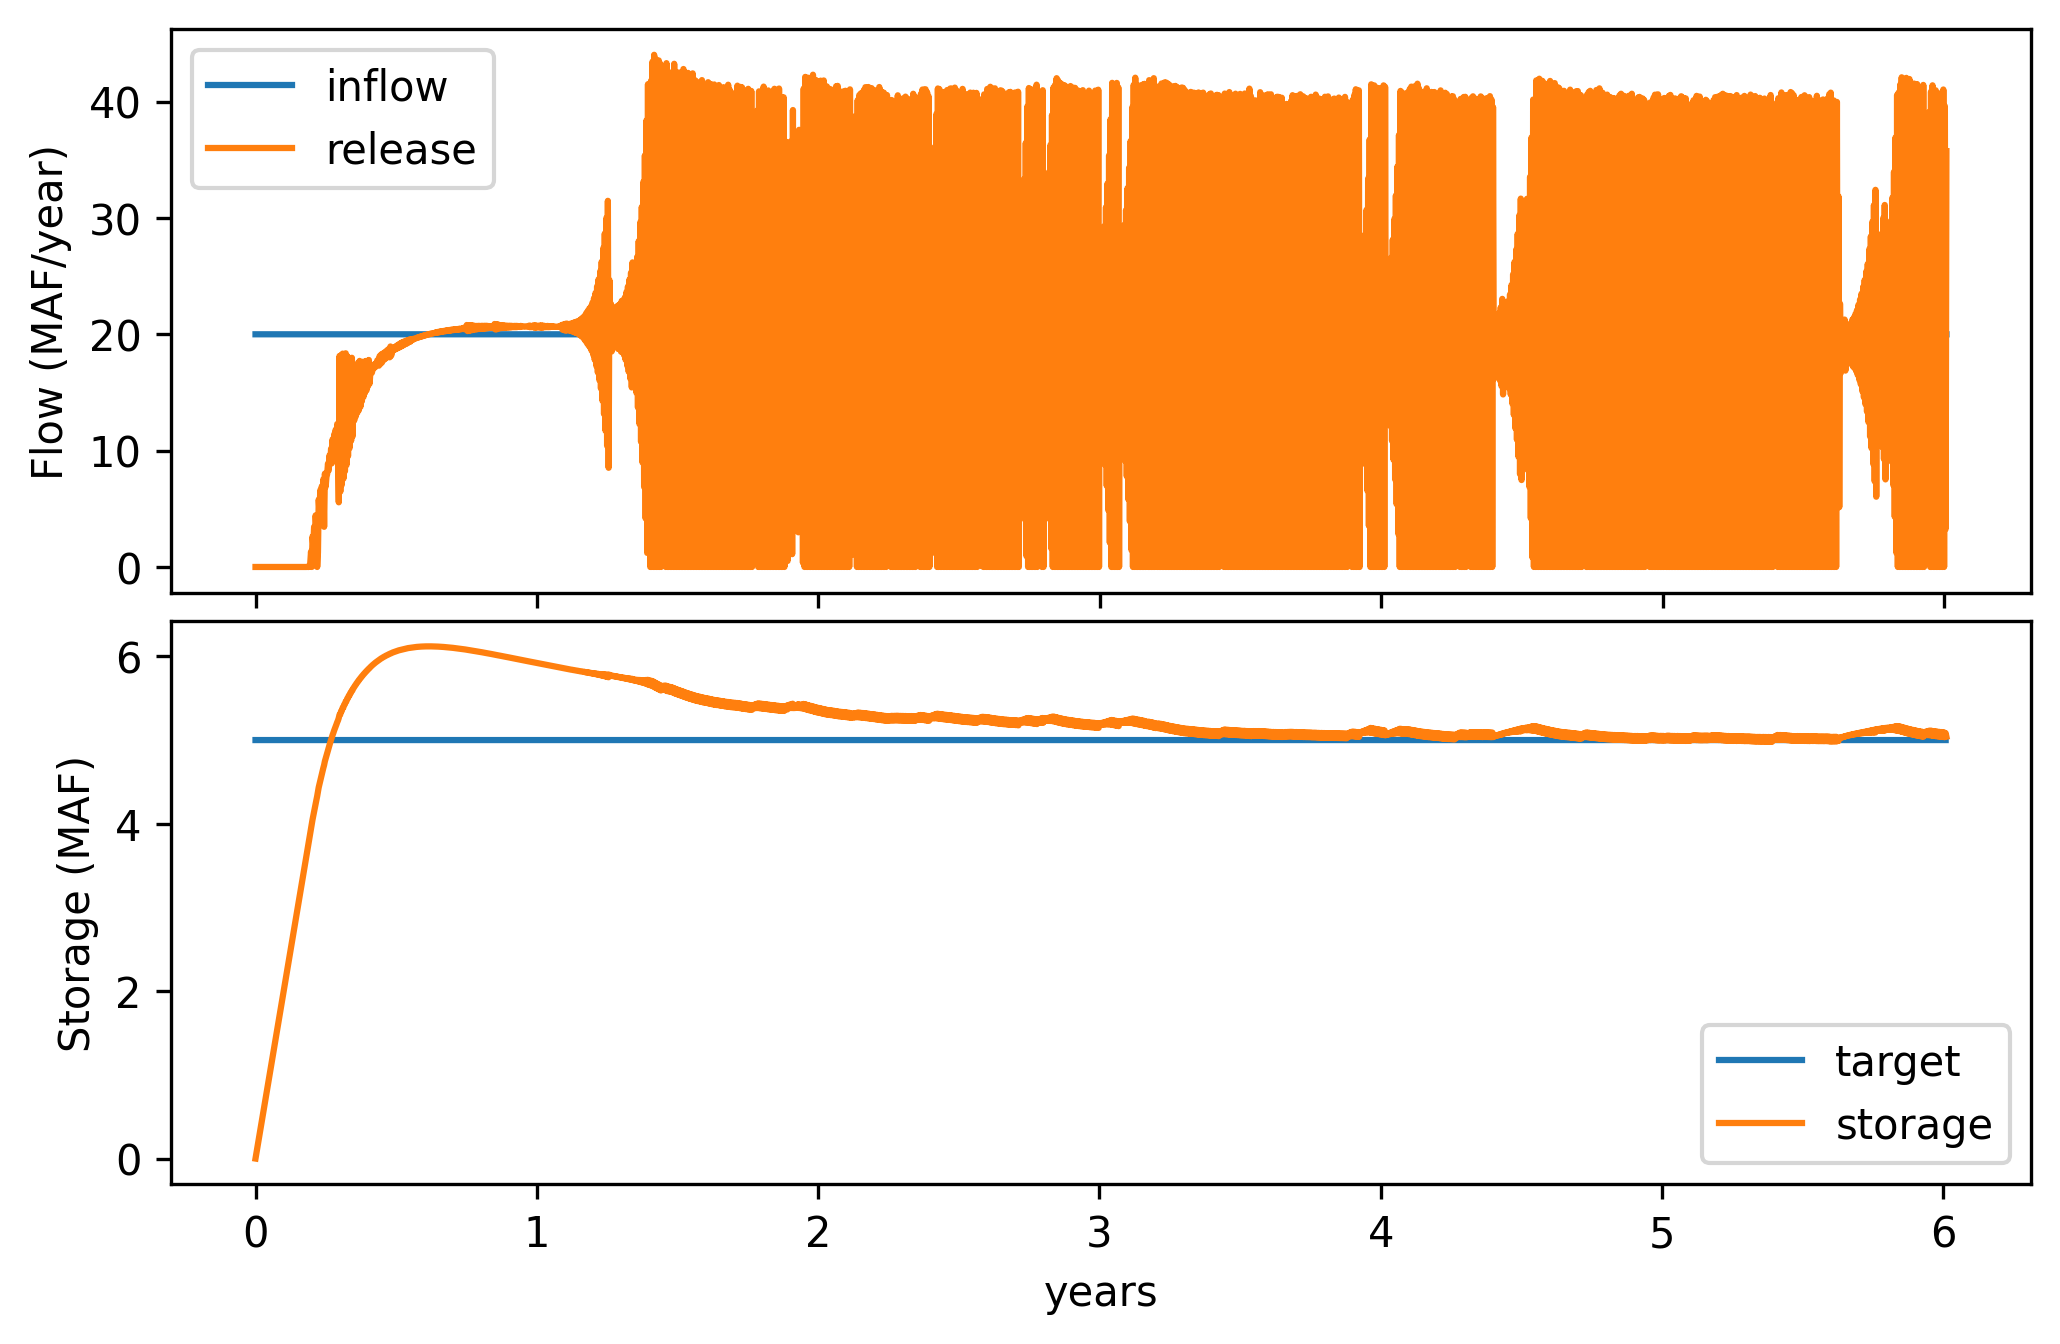
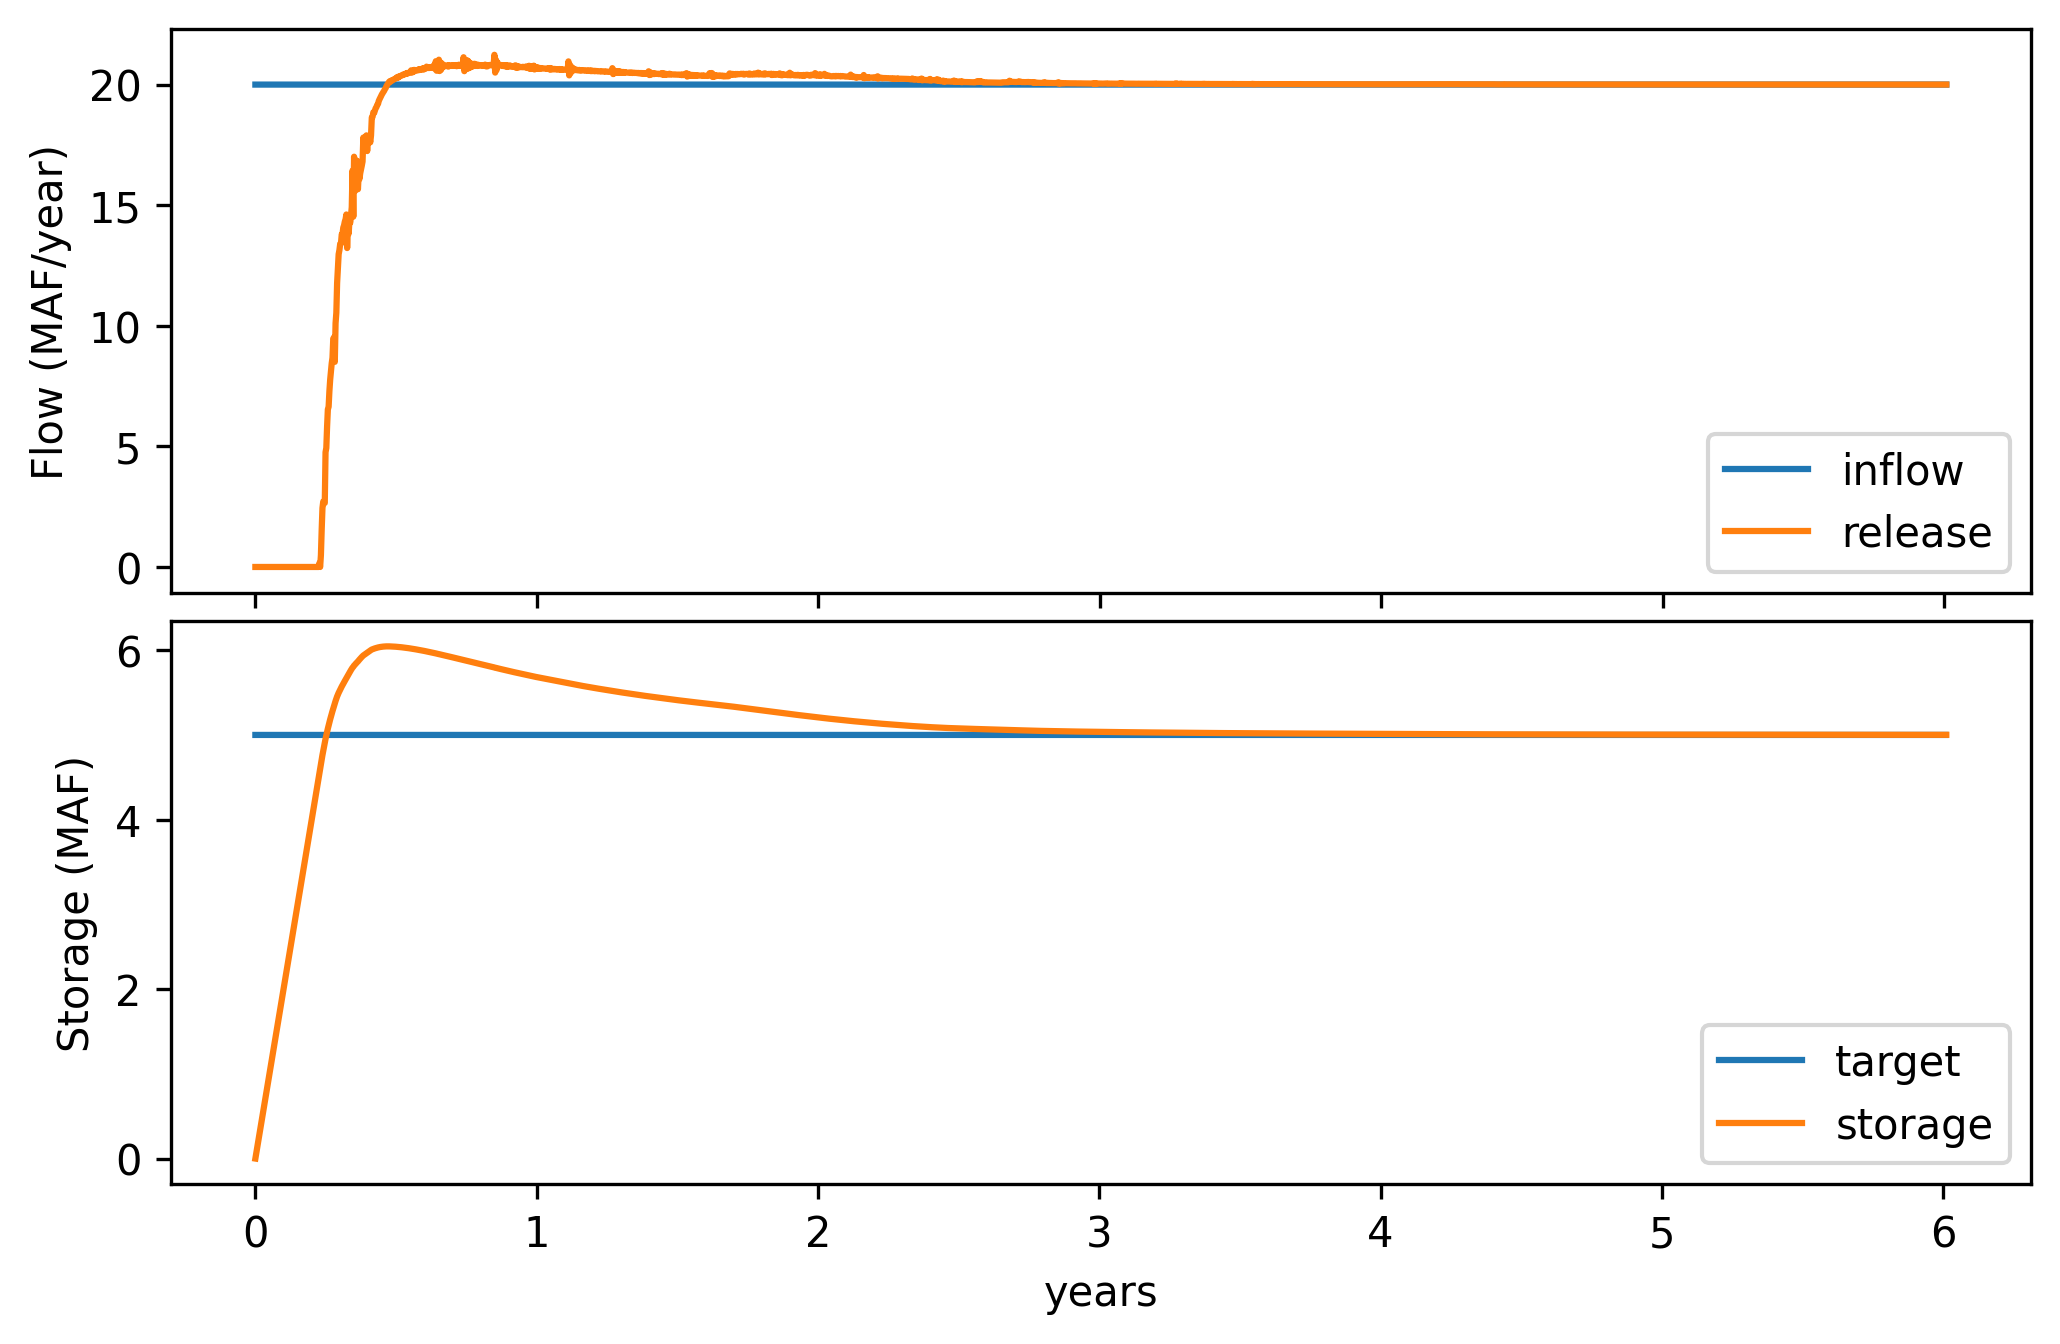
final commit for post

diff --git a/Reservoir_PID.py b/Reservoir_PID.py
@@ -18,7 +18,7 @@ use_inflow_rand_walk = True
 inflow_rand_walk_sd = 0.1
 use_inflow_jump = True
 inflow_jump_prob = 0.01
-inflow_jump_amp = 2
+inflow_jump_amp = 4
 
 ### reservoir parameters
 storage_0 = 0
@@ -32,10 +32,14 @@ target_sin_amp = 2
 # PID_params = -np.array([0, 0, 0]) ## no control
 # PID_params = -np.array([1, 0, 0]) ## insufficient release to avoid filling up
 # PID_params = -np.array([15, 0, 0]) ## better control, but leads to steady state error
+# PID_params = -np.array([150, 0, 0]) ## better control, but leads to steady state error
 # PID_params = -np.array([15, 10000, 0]) ## integral control reduces error to 0 over time
 # PID_params = -np.array([150, 100000, 0]) ## increase controls more for faster equilibrium
-# PID_params = -np.array([15, 10000, 0.0005]) ## sequence to show oscillations in D control
+# PID_params = -np.array([15, 100, 0]) ## sequence to show impact of I param
+# PID_params = -np.array([15, 10000, 0]) ## sequence to show impact of I param
+# PID_params = -np.array([15, 1000000, 0]) ## sequence to show impact of I param
 # PID_params = -np.array([15, 10000, 0.001]) ## sequence to show oscillations in D control
+# PID_params = -np.array([15, 10000, 0.0025]) ## sequence to show oscillations in D control
 # PID_params = -np.array([15, 10000, 0.005]) ## sequence to show oscillations in D control
 # PID_params = -np.array([150, 100000, 0])  ## good for sinusoidal inflow
 # PID_params = -np.array([150, 100000, 0])  ## good for sinusoidal inflow & set point
@@ -44,7 +48,7 @@ target_sin_amp = 2
 PID_params = -np.array([15, 100, 0])  ## lower variability policy for sinusoidal inflow & set point, gauss + jump noise
 
 ### set random seed for consistent results
-rseed = 0
+rseed = 2
 seed(rseed)
 
 ### reservoir class

diff --git a/README.md b/README.md
@@ -1,0 +1,1 @@
+This repository contains all code related to the post [Intro to PID controllers with a reservoir example](https://waterprogramming.wordpress.com/2023/02/08/intro-to-pid-controllers-with-a-reservoir-example/) by Andrew Hamilton, on the Water Programming Blog.
